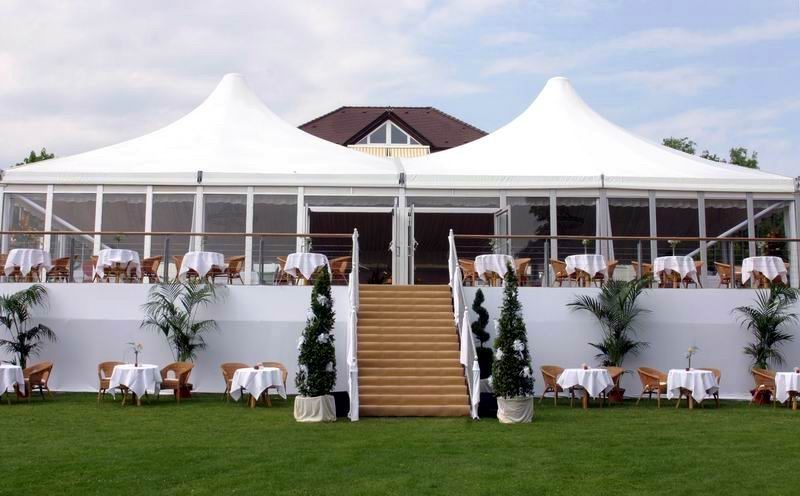
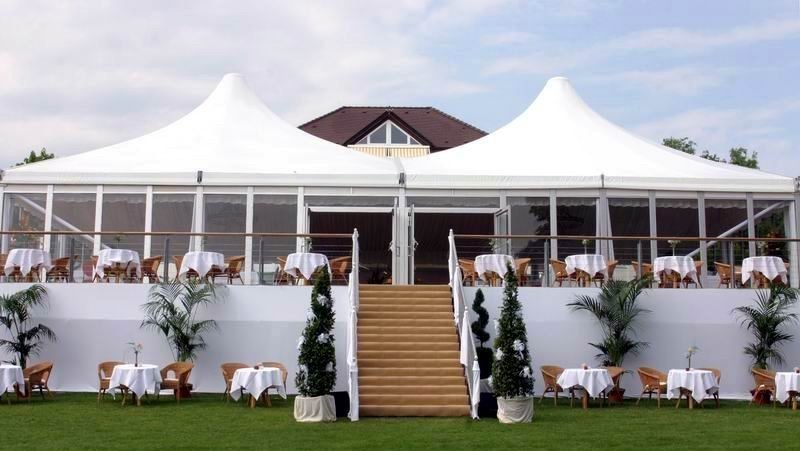
fix: remove Infinix watermark, fix heading clip, add floating glow WhatsApp CTA
- Cropped bottom 9% off all 15 work images (removes Infinix HOT PLAY stamp)
- BrandIntro: explicit <br/> + looser line-height fixes italic clip on mobile
- FloatingWhatsApp: pulsing green glow button, slides up after 1.5s, fixed bottom-right
- globals.css: wa-glow keyframe animation

diff --git a/src/components/ui/FloatingWhatsApp.tsx b/src/components/ui/FloatingWhatsApp.tsx
@@ -1,0 +1,37 @@
+"use client";
+import { useEffect, useState } from "react";
+import { getWhatsAppLink } from "@/lib/whatsapp";
+
+export default function FloatingWhatsApp() {
+  const [visible, setVisible] = useState(false);
+
+  useEffect(() => {
+    // Show after 1.5s so it doesn't compete with page load
+    const t = setTimeout(() => setVisible(true), 1500);
+    return () => clearTimeout(t);
+  }, []);
+
+  return (
+    <a
+      href={getWhatsAppLink("quote")}
+      target="_blank"
+      rel="noopener noreferrer"
+      aria-label="Chat with Nufty Rental Service on WhatsApp"
+      className={[
+        "fixed bottom-6 right-5 z-50 flex items-center gap-2.5",
+        "rounded-full bg-[#25D366] px-5 py-3.5 shadow-[0_0_0_0_rgba(37,211,102,0.5)]",
+        "font-sans text-[11px] font-semibold uppercase tracking-[0.18em] text-white",
+        "transition-all duration-500 ease-out",
+        "hover:scale-105 hover:shadow-[0_0_28px_6px_rgba(37,211,102,0.45)]",
+        "animate-wa-glow",
+        visible ? "translate-y-0 opacity-100" : "translate-y-8 opacity-0",
+      ].join(" ")}
+      style={{ willChange: "transform, opacity" }}
+    >
+      <svg viewBox="0 0 24 24" aria-hidden="true" className="h-[18px] w-[18px] shrink-0 fill-white">
+        <path d="M17.472 14.382c-.297-.149-1.758-.867-2.03-.967-.273-.099-.471-.148-.67.15-.197.297-.767.966-.94 1.164-.173.199-.347.223-.644.075-.297-.15-1.255-.463-2.39-1.475-.883-.788-1.48-1.761-1.653-2.059-.173-.297-.018-.458.13-.606.134-.133.298-.347.446-.52.149-.174.198-.298.298-.497.099-.198.05-.371-.025-.52-.075-.149-.669-1.612-.916-2.207-.242-.579-.487-.5-.669-.51-.173-.008-.371-.01-.57-.01-.198 0-.52.074-.792.372-.272.297-1.04 1.016-1.04 2.479 0 1.462 1.065 2.875 1.213 3.074.149.198 2.096 3.2 5.077 4.487.709.306 1.262.489 1.694.625.712.227 1.36.195 1.871.118.571-.085 1.758-.719 2.006-1.413.248-.694.248-1.289.173-1.413-.074-.124-.272-.198-.57-.347m-5.421 7.403h-.004a9.87 9.87 0 01-5.031-1.378l-.361-.214-3.741.982.998-3.648-.235-.374a9.86 9.86 0 01-1.51-5.26c.001-5.45 4.436-9.884 9.888-9.884 2.64 0 5.122 1.03 6.988 2.898a9.825 9.825 0 012.893 6.994c-.003 5.45-4.437 9.884-9.885 9.884m8.413-18.297A11.815 11.815 0 0012.05 0C5.495 0 .16 5.335.157 11.892c0 2.096.547 4.142 1.588 5.945L.057 24l6.305-1.654a11.882 11.882 0 005.683 1.448h.005c6.554 0 11.89-5.335 11.893-11.893a11.821 11.821 0 00-3.48-8.413z"/>
+      </svg>
+      Get a Quote
+    </a>
+  );
+}

diff --git a/src/components/home/BrandIntro.tsx b/src/components/home/BrandIntro.tsx
@@ -5,7 +5,7 @@ export default function BrandIntro(){return <section id="about" className="bg-ba
     <div className="grid gap-12 lg:grid-cols-12 lg:gap-8">
       <Reveal effect="reveal" className="lg:col-span-3"><p className="label text-[10px] text-accent">The Nufty Standard</p></Reveal>
       <Reveal effect="reveal-clip" className="lg:col-span-8 lg:col-start-4">
-        <h2 className="font-display text-balance text-[clamp(2.7rem,6.2vw,6.2rem)] font-medium leading-[.95] tracking-[-.035em]">Your event deserves <span className="italic text-black/45">a great setting.</span></h2>
+        <h2 className="font-display text-[clamp(2.4rem,5.6vw,5.6rem)] font-medium leading-[1.05] tracking-[-.025em]">Your event deserves<br /><span className="italic text-black/40">a great setting.</span></h2>
       </Reveal>
       <div className="hidden lg:col-span-3 lg:block"/>
       <Reveal effect="reveal" delay={120} className="lg:col-span-6 lg:col-start-4">

diff --git a/src/app/globals.css b/src/app/globals.css
@@ -63,3 +63,10 @@ body {
   html { scroll-behavior: auto; }
   .reveal, .reveal-clip, .reveal-scale { opacity: 1 !important; transform:none !important; clip-path:none !important; transition:none !important; }
 }
+
+/* Floating WhatsApp CTA glow pulse */
+@keyframes wa-glow {
+  0%, 100% { box-shadow: 0 0 0 0 rgba(37,211,102,0.55), 0 4px 20px rgba(37,211,102,0.25); }
+  50%       { box-shadow: 0 0 0 10px rgba(37,211,102,0), 0 4px 28px rgba(37,211,102,0.4); }
+}
+.animate-wa-glow { animation: wa-glow 2.6s ease-in-out infinite; }

diff --git a/src/app/layout.tsx b/src/app/layout.tsx
@@ -1,5 +1,6 @@
 import type { Metadata } from "next";
 import type { ReactNode } from "react";
+import FloatingWhatsApp from "@/components/ui/FloatingWhatsApp";
 import { Fraunces, Inter } from "next/font/google";
 import "./globals.css";
 
@@ -140,6 +141,7 @@ export default function RootLayout({ children }: { children: ReactNode }) {
           dangerouslySetInnerHTML={{ __html: JSON.stringify(jsonLd) }}
         />
         {children}
+        <FloatingWhatsApp />
       </body>
     </html>
   );
